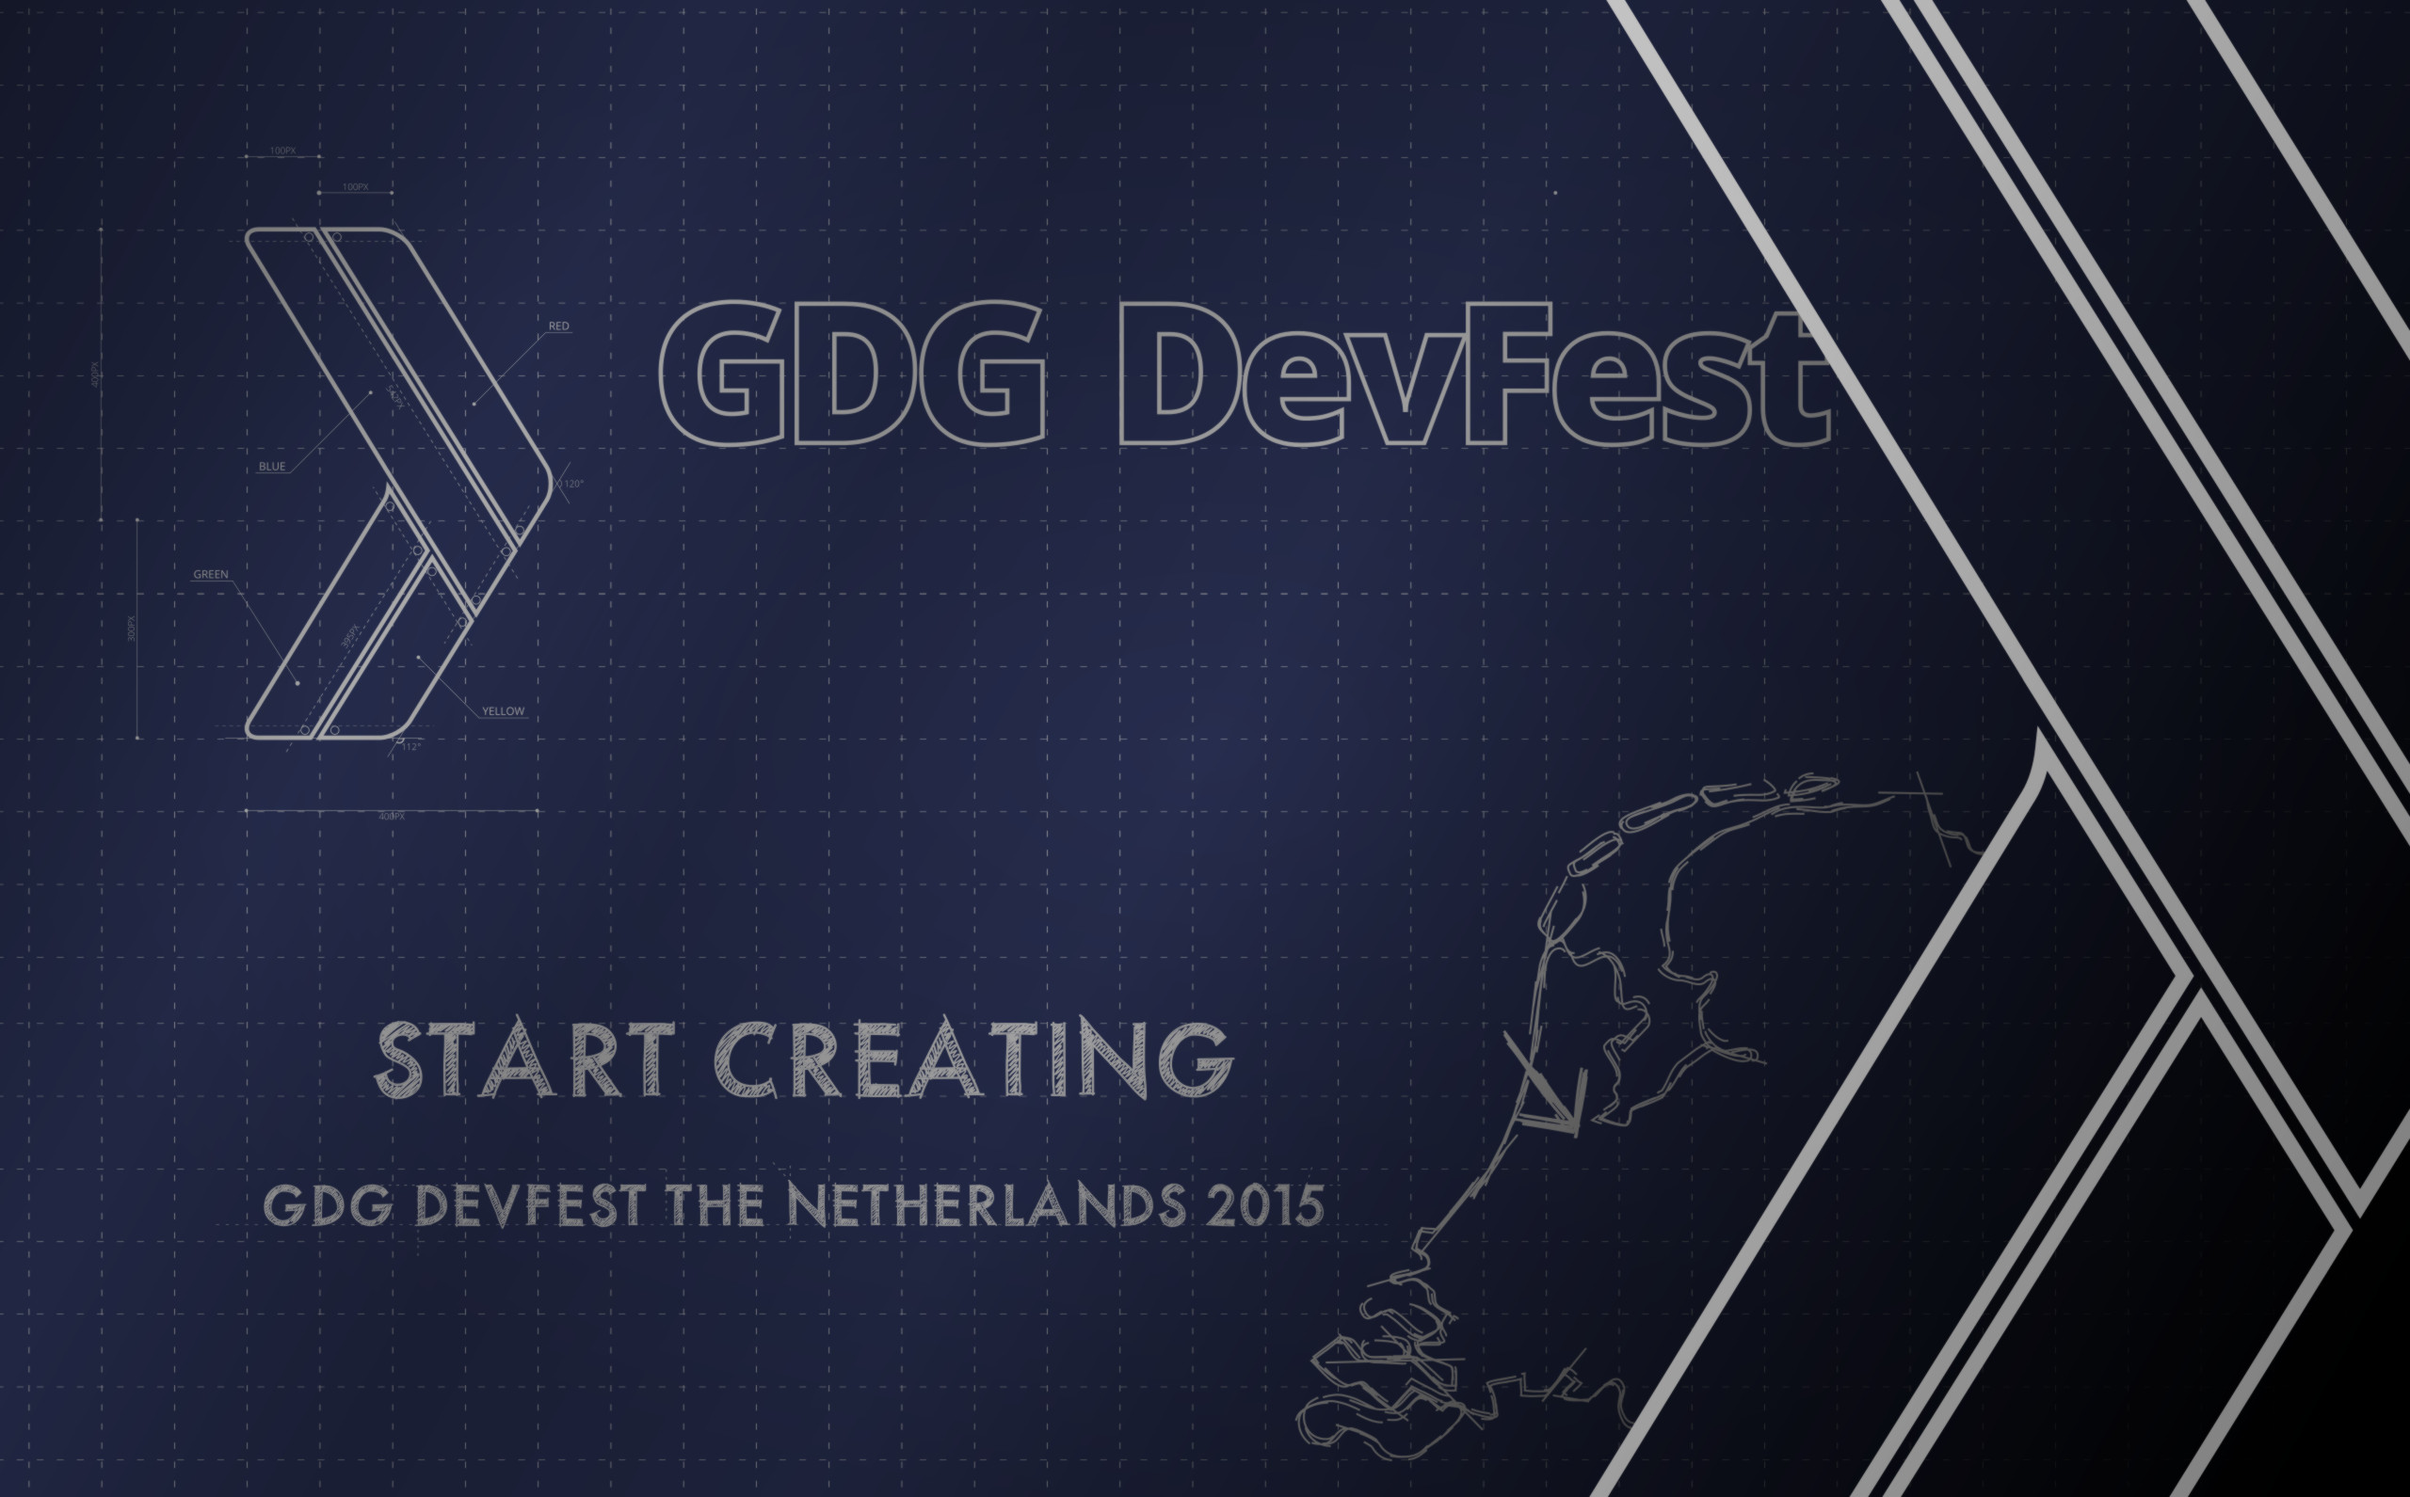
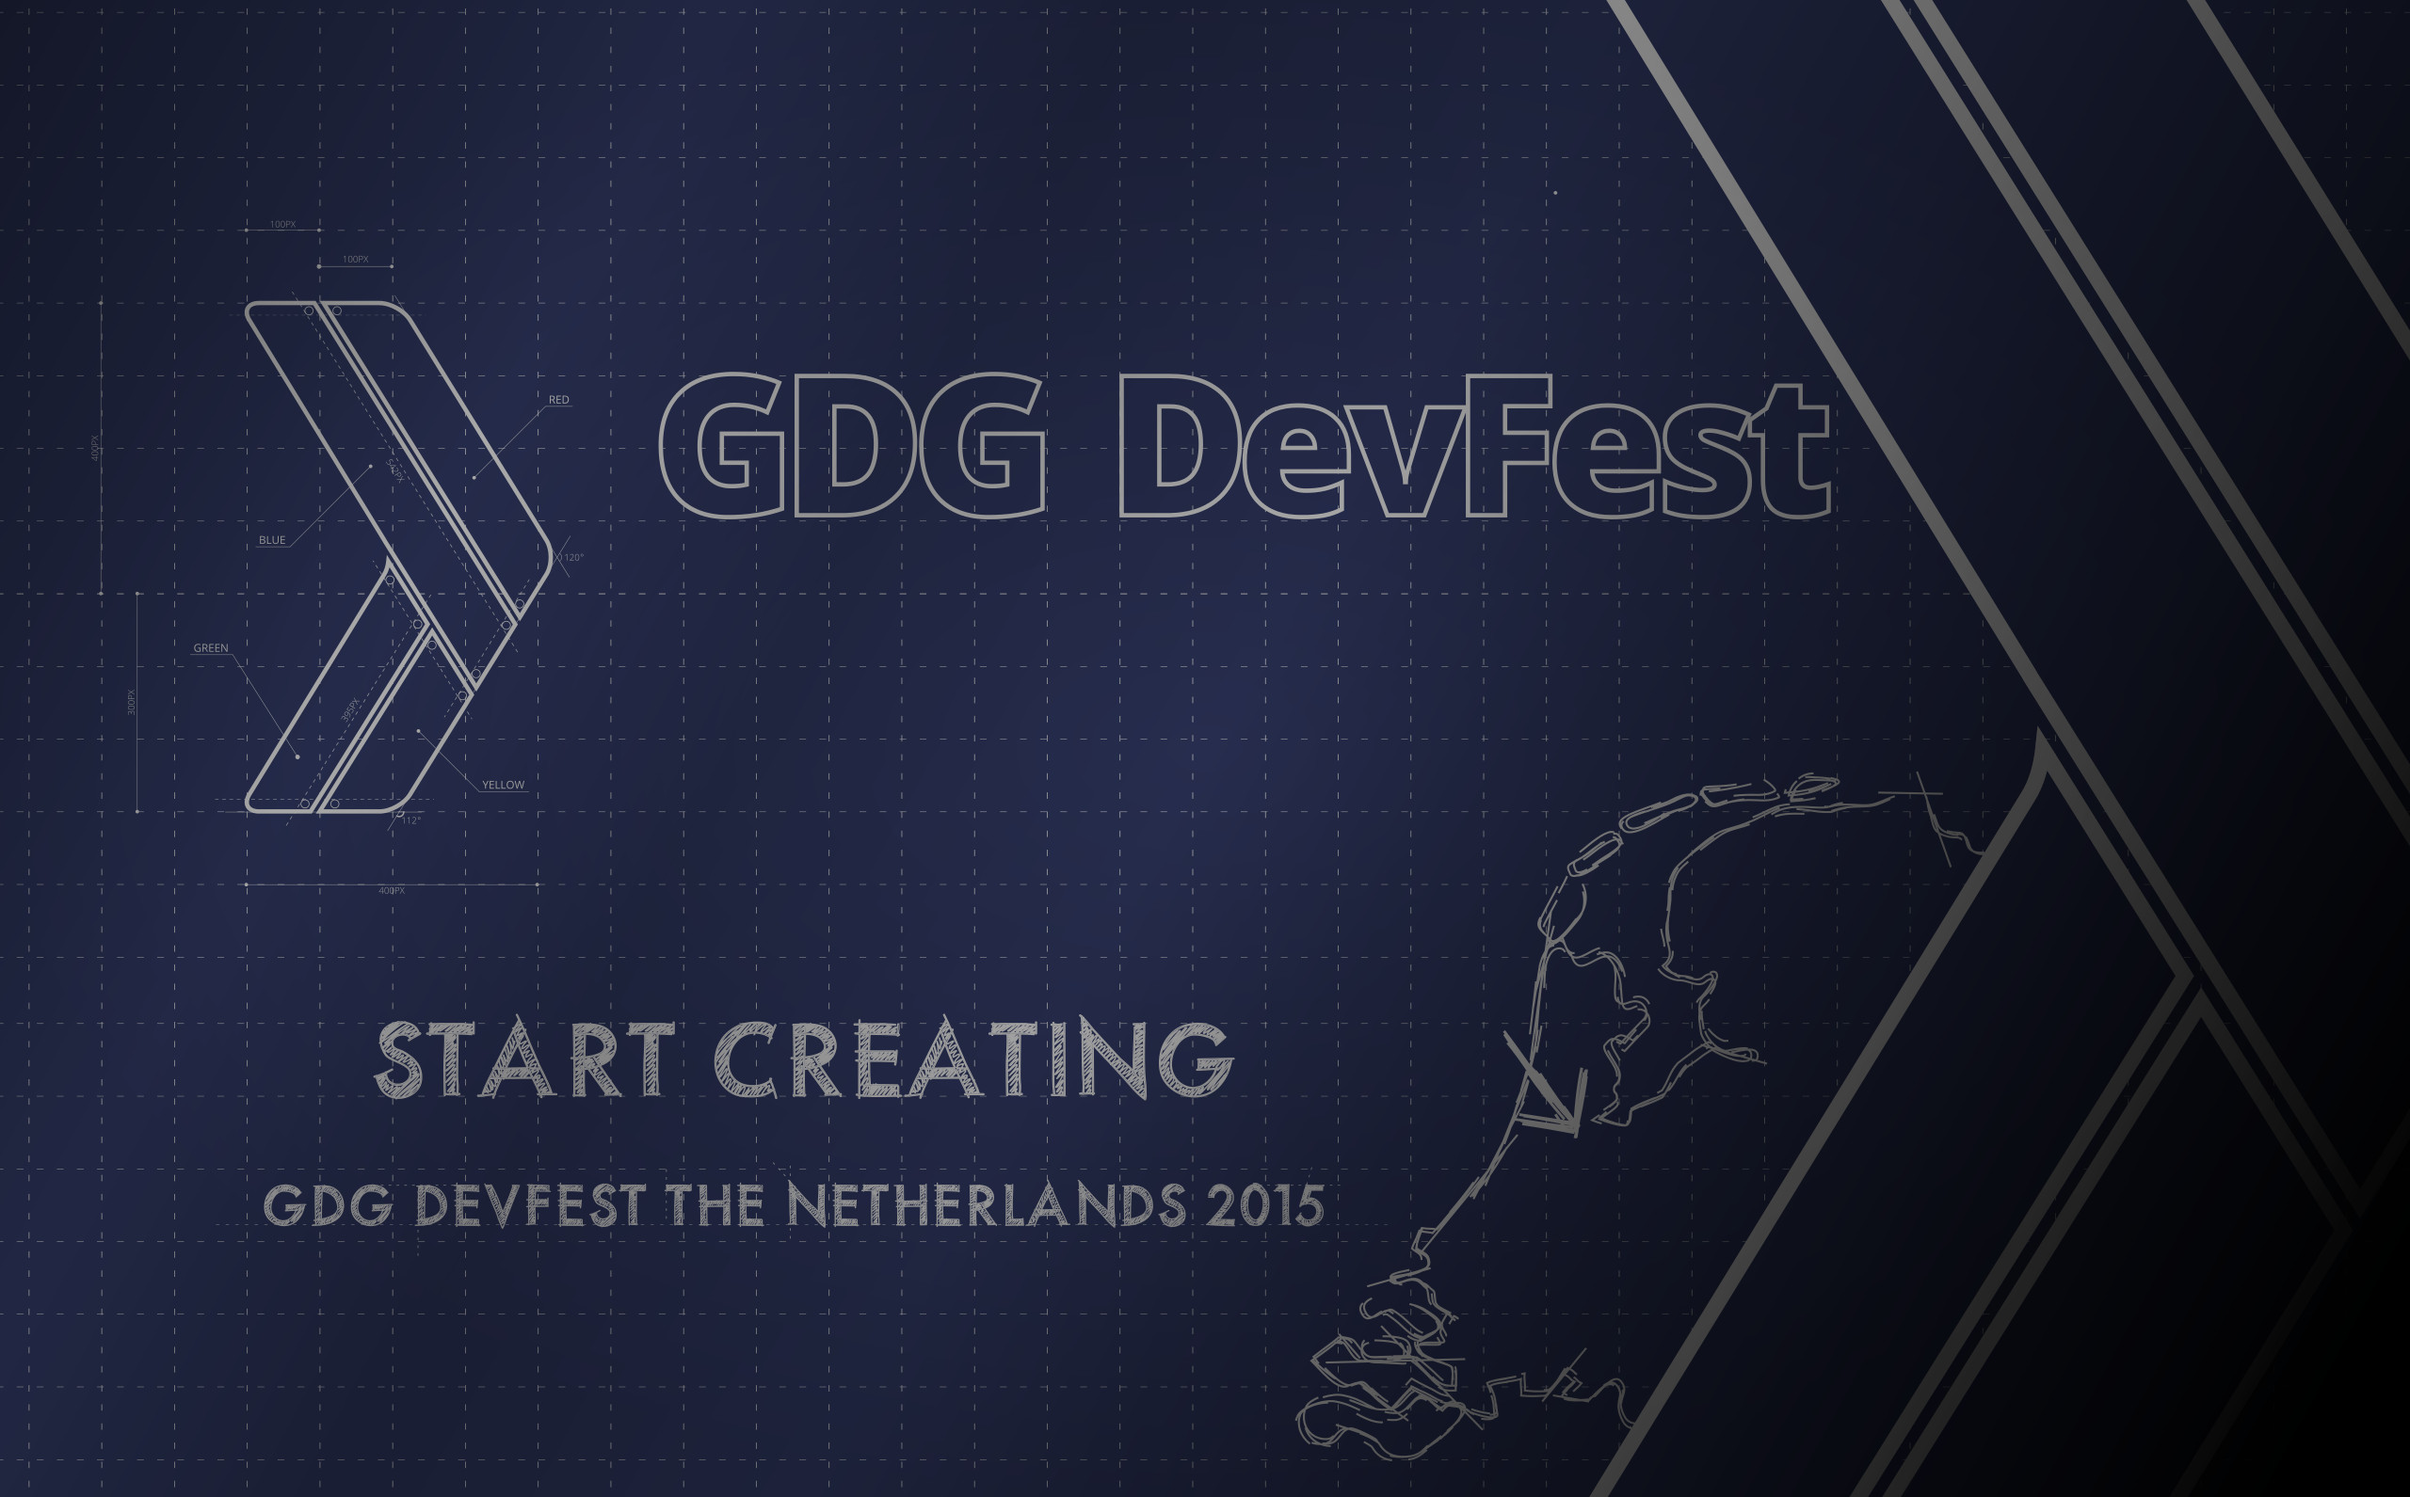
set background color\nupdated background

diff --git a/app/_includes/index/hero.html b/app/_includes/index/hero.html
@@ -1,5 +1,5 @@
 <!-- Begin Hero Section -->
-<section id="top-section-hero" class="top-section-hero top-section image-section" style="background-image: url('{{ site.baseurl_root }}/img/sections-background/{{ site.data.[site.lang].index.hero.image }}');">
+<section id="top-section-hero" class="top-section-hero top-section image-section" style="background: #141729 url('{{ site.baseurl_root }}/img/sections-background/{{ site.data.[site.lang].index.hero.image }}');">
     {% include general/navigation.html %}
     <div class="content-wrapper">
     <div class="jumbotron">
